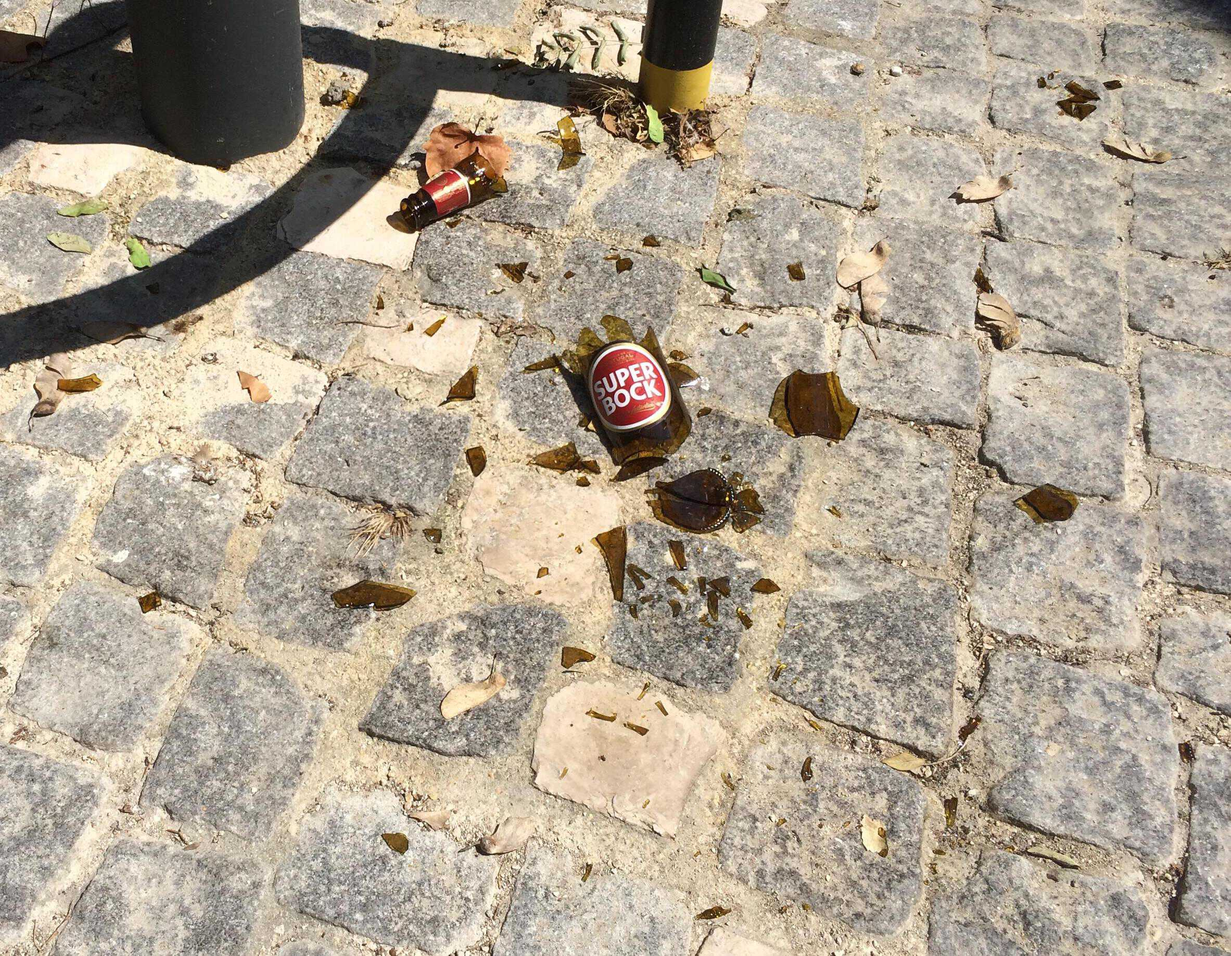
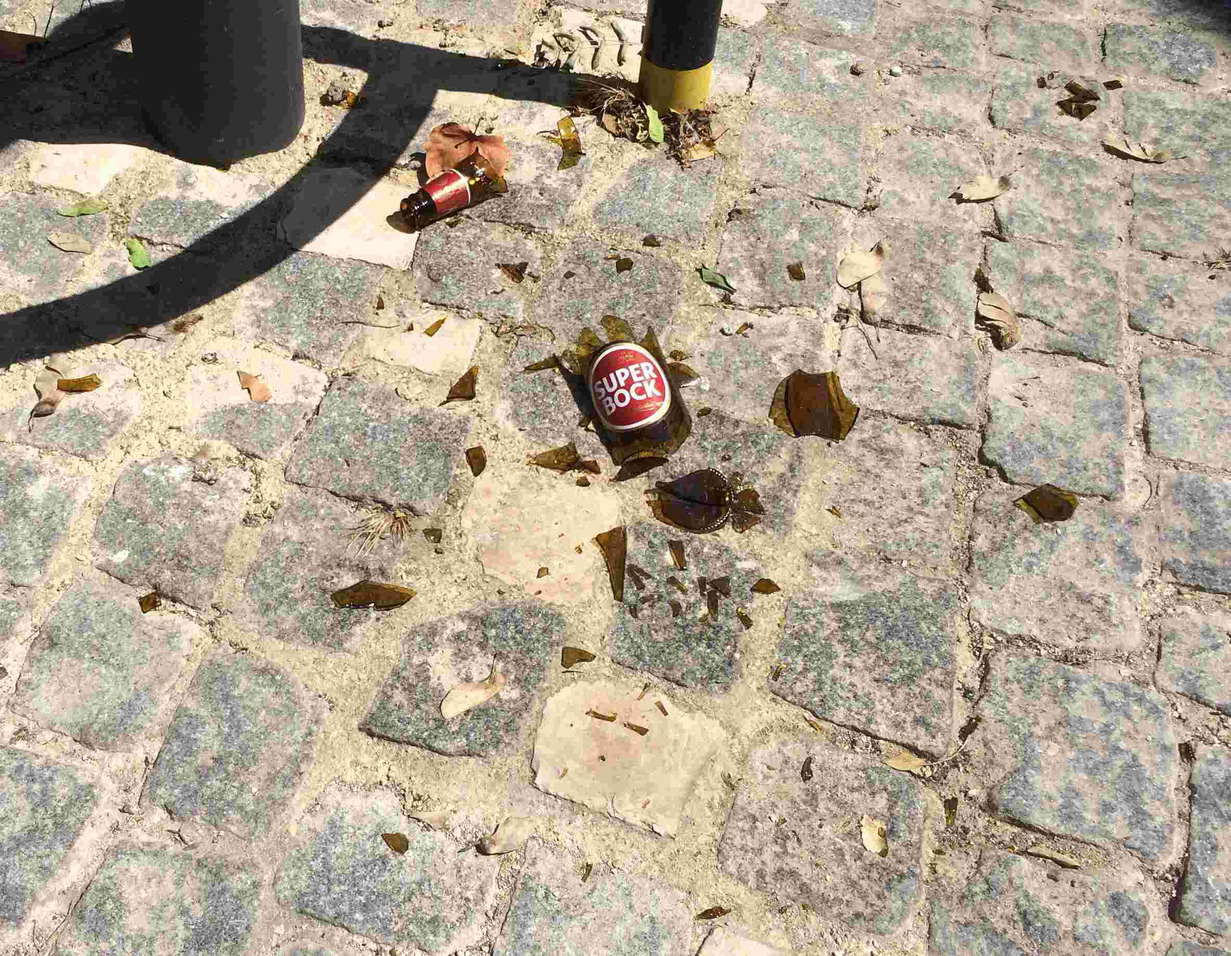
Trying more compressed Tutorial Images to see if they lazy load faster

diff --git a/src/views/Tutorial.vue b/src/views/Tutorial.vue
@@ -49,7 +49,7 @@
                 <v-card class="ma-6 mx-auto pa-3 grey lighten-5" width="40%" :elevation="2">
                     <v-tooltip bottom>
                         <template v-slot:activator="{ on, attrs }">
-                            <v-img v-bind="attrs" v-on="on" src="https://images.unsplash.com/photo-1531746790731-6c087fecd65a?ixlib=rb-1.2.1&ixid=eyJhcHBfaWQiOjEyMDd9&auto=format&fit=crop&w=995&q=80" />
+                            <v-img v-bind="attrs" v-on="on" lazy-src="/TrashSelector/assets/tutorialImages-compressed/franck-v-jIBMSMs4_kA-unsplash-min.jpg" src="https://images.unsplash.com/photo-1531746790731-6c087fecd65a?ixlib=rb-1.2.1&ixid=eyJhcHBfaWQiOjEyMDd9&auto=format&fit=crop&w=995&q=80" />
                         </template>
                         <span>Photo by <a class="white--text" href="https://unsplash.com/@franckinjapan?utm_source=unsplash&utm_medium=referral&utm_content=creditCopyText">Franck V.</a> on Unsplash</span>
                     </v-tooltip>
